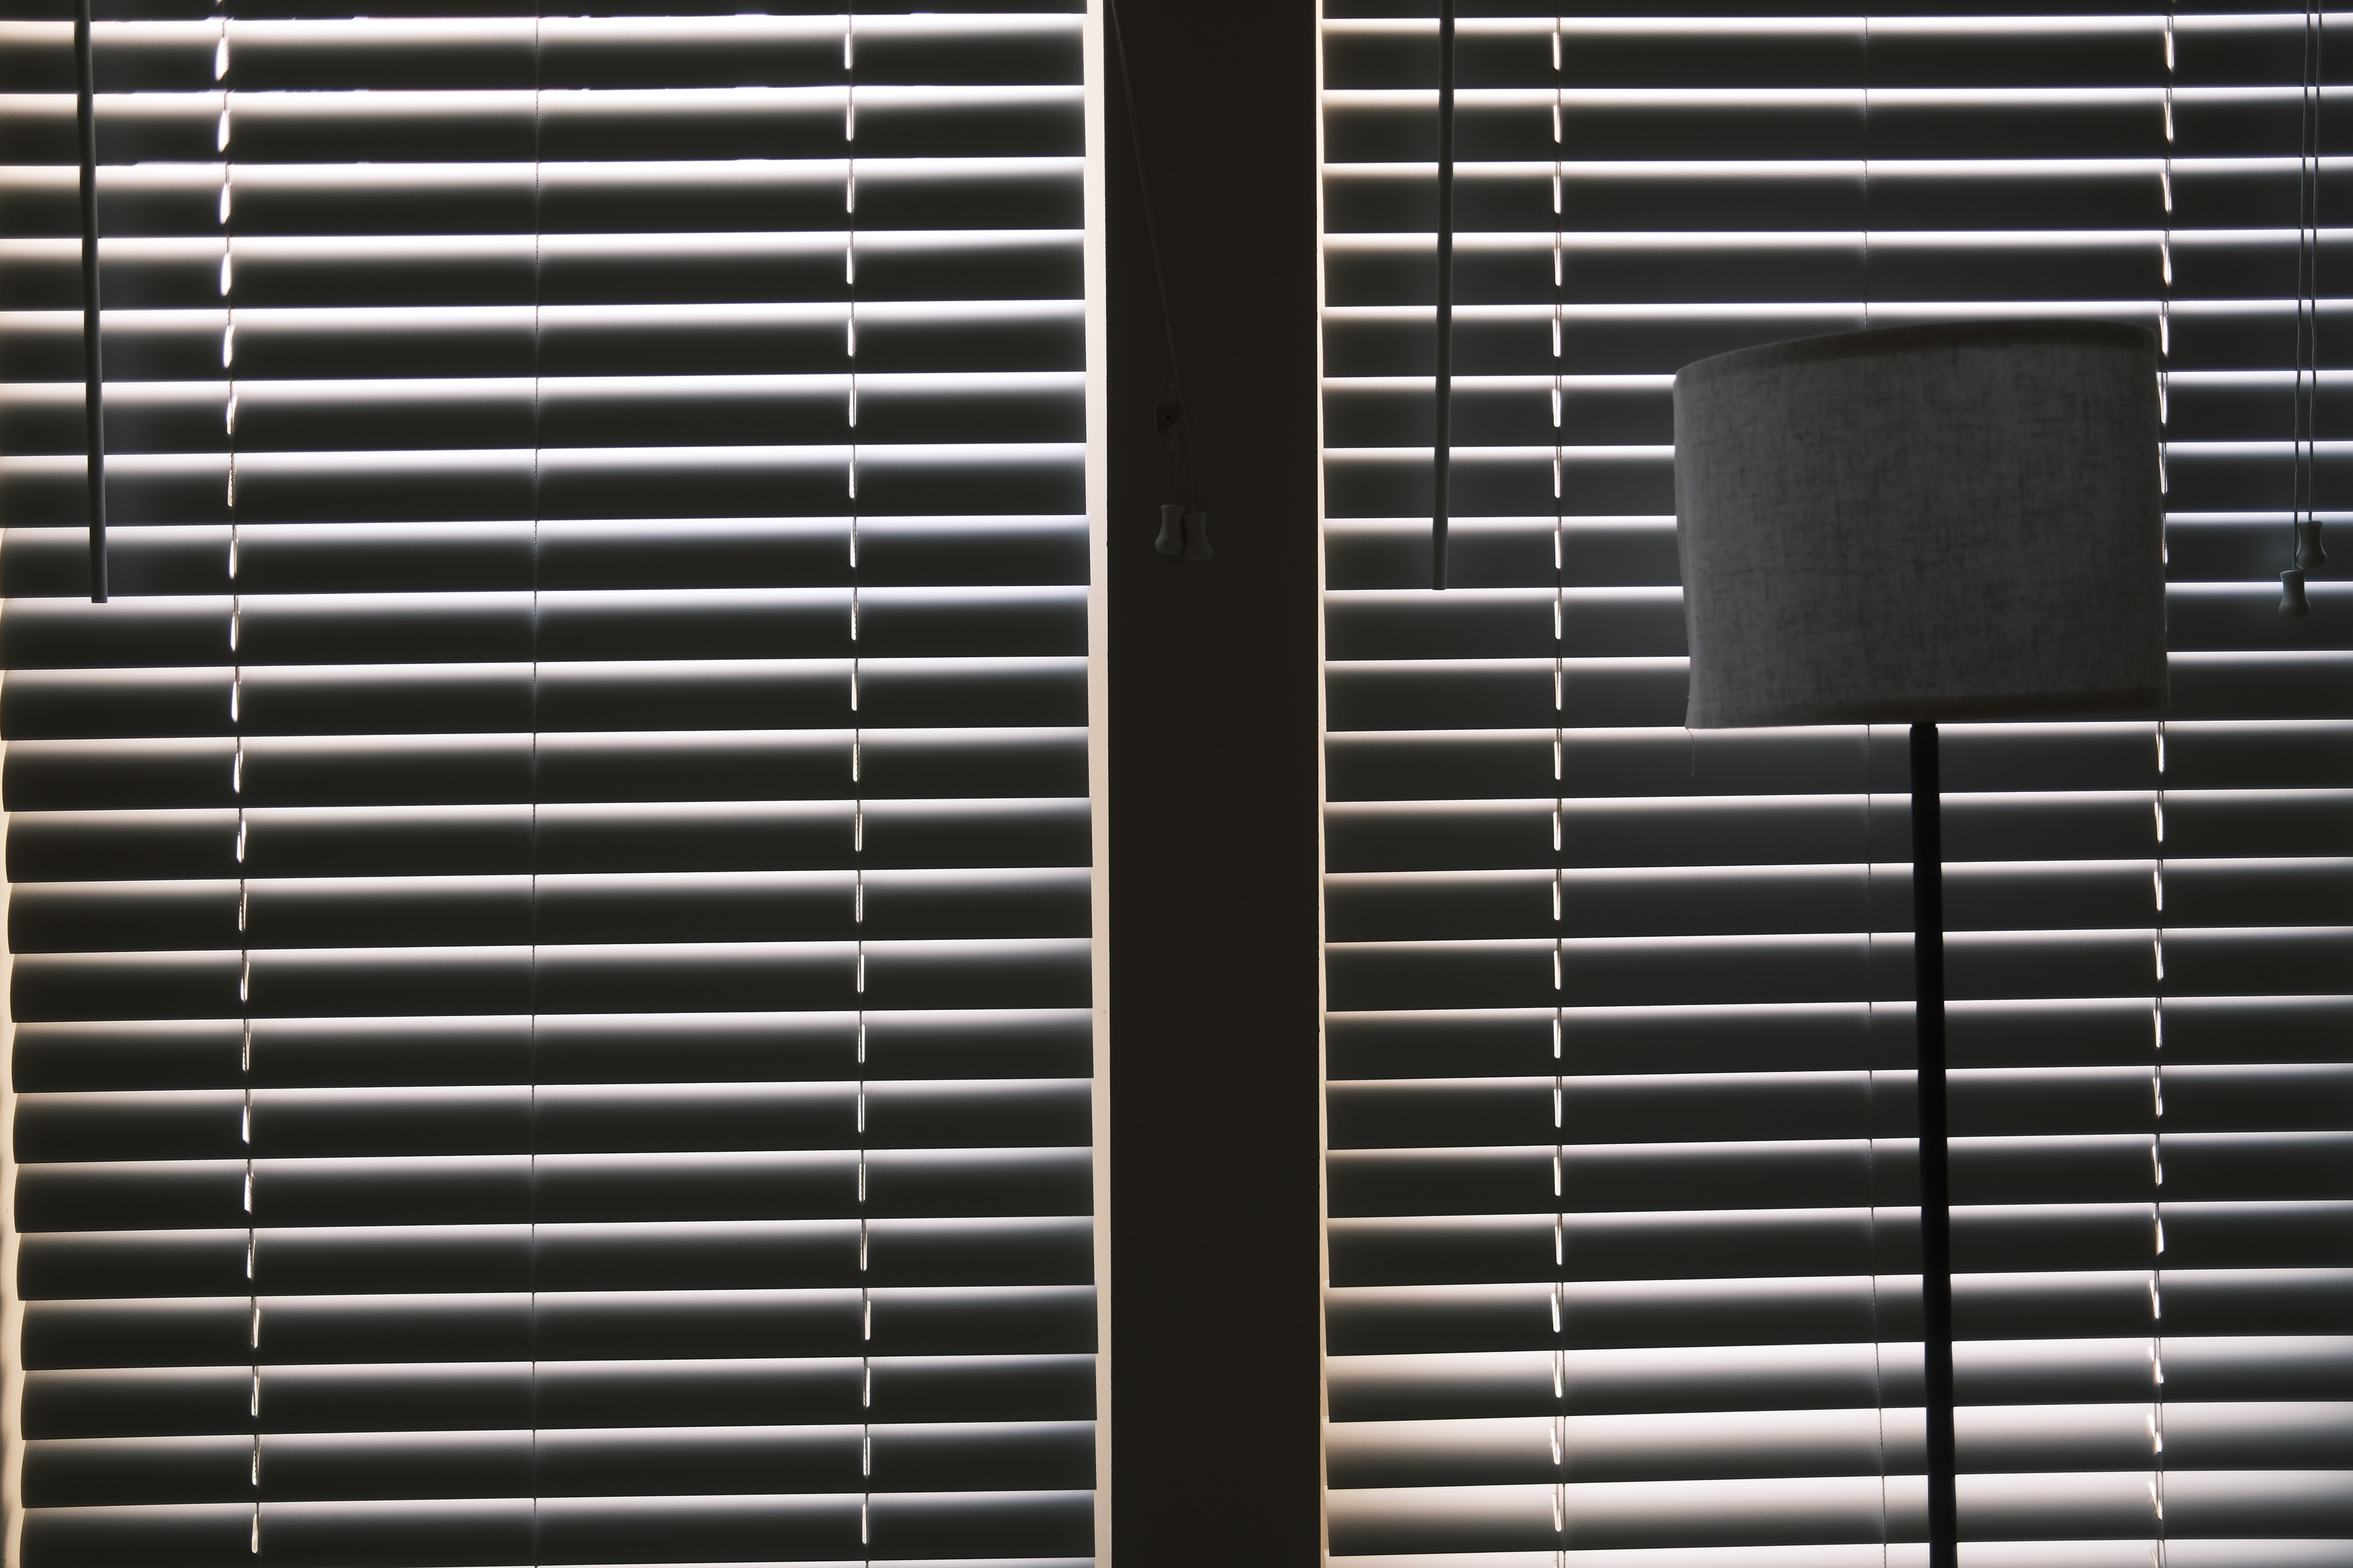
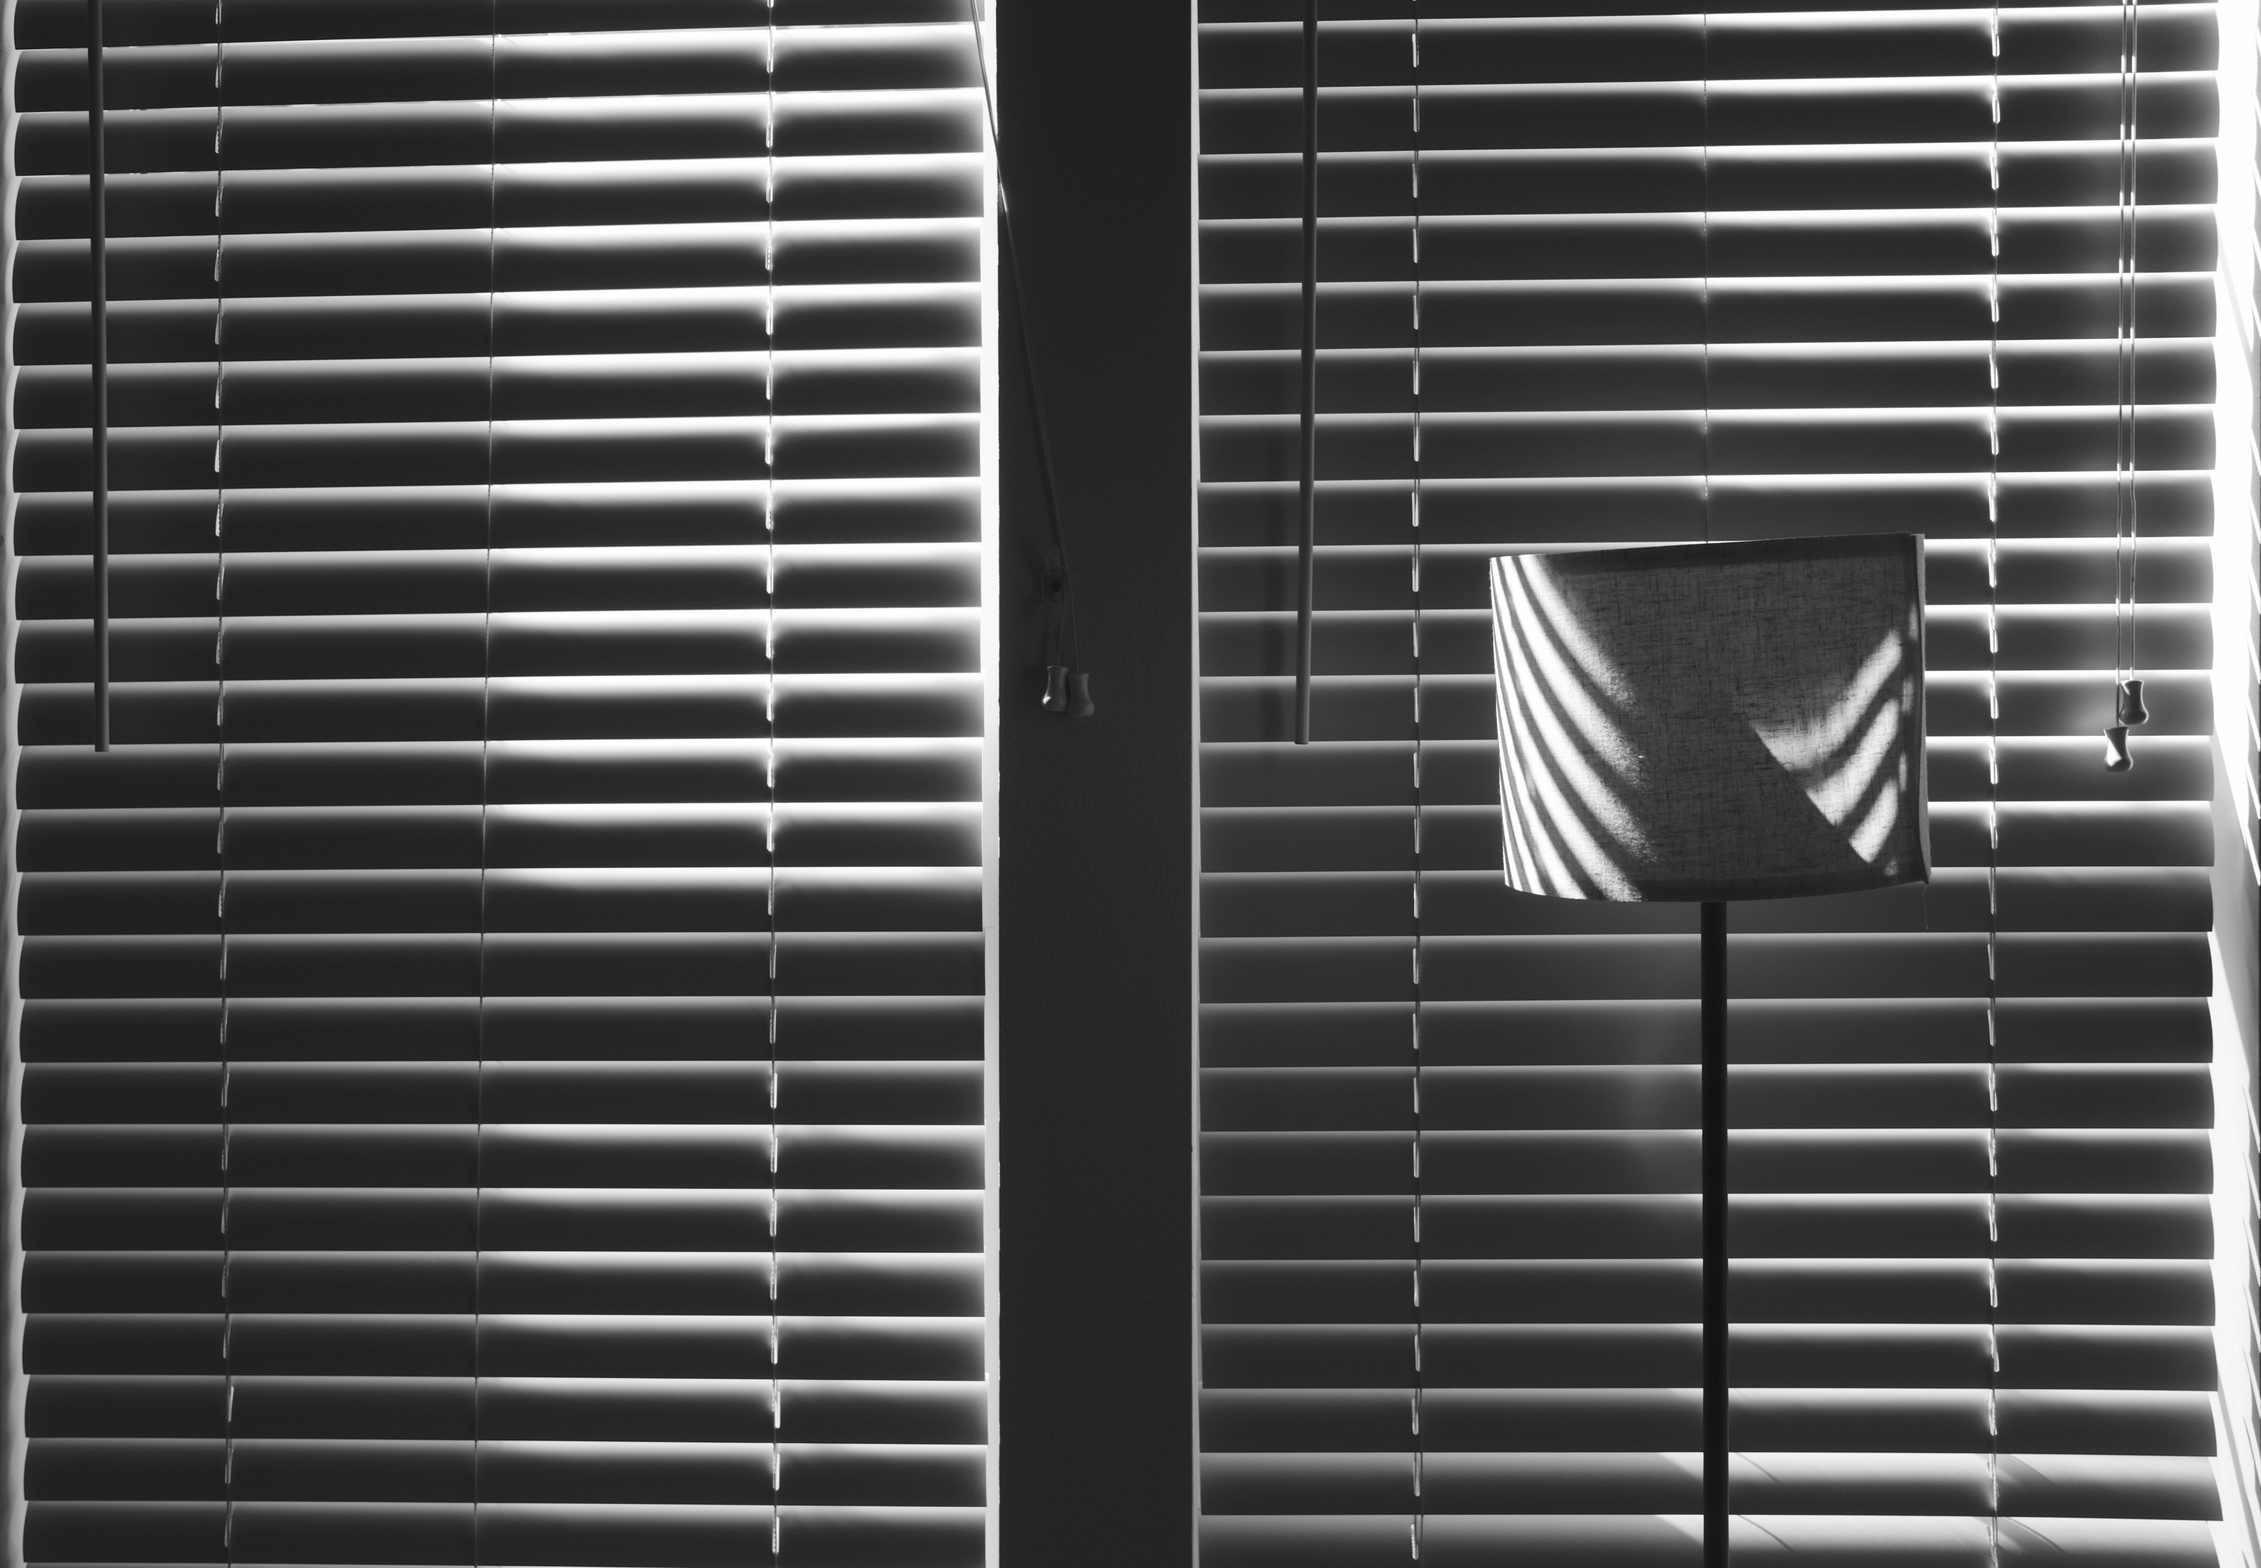
Add remove images to gallery.

diff --git a/content/gallery/triptych-lamp/bnw-light.md b/content/gallery/triptych-lamp/bnw-light.md
@@ -4,3 +4,5 @@ location: San Jose, CA
 date: 2025-05-02T13:55:00
 image: "/triptych-lamp/triptych-f-light.JPG"
 ---
+
+This is a transition between Sepia and BnW. Somewhere in the twilight zone, I had to wait for _couple_ of hours to get this shot.

diff --git a/content/gallery/triptych-lamp/blinds-framed-2.md b/content/gallery/triptych-lamp/blinds-framed-2.md
@@ -1,0 +1,6 @@
+---
+title: "Rhythm II."
+location: San Jose, CA
+date: 2025-05-02T13:44:00
+image: "/triptych-lamp/triptych-border-bnw-2.JPG"
+---
